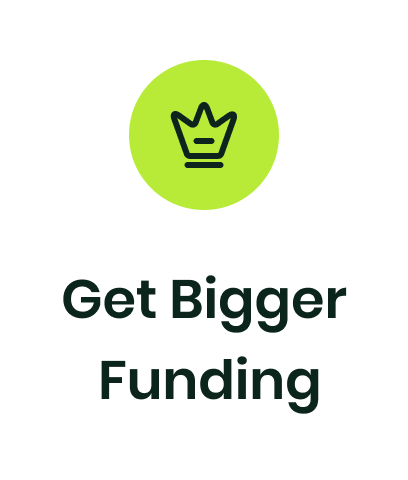
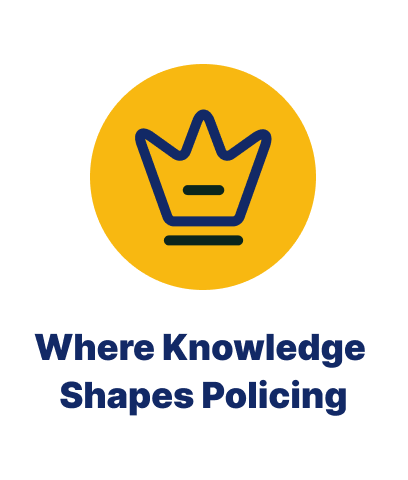
fixed publicationcontent

diff --git a/app/Http/Controllers/PublicationController.php b/app/Http/Controllers/PublicationController.php
@@ -32,25 +32,25 @@ class PublicationController extends Controller
 
         if ($publicationTypes->isEmpty()) {
             return view('pages.publication.index', [
-                'latestPublications' => [],
-                'publicationTypes' => $publicationTypes,
-                'selectedType' => null,
-                'bestAuthors' => collect([]),
-                'popularPublications' => collect([]),
-                'featuredPublication' => null,
-                'featuredTypeContent' => null,
-                'categories' => collect([]),
-                'years' => collect([]),
-                'topKeywords' => collect([]),
-                'filterSort' => 'latest',
-                'searchQuery' => null,
+                'latestPublications'   => [],
+                'publicationTypes'     => $publicationTypes,
+                'selectedType'         => null,
+                'bestAuthors'          => collect([]),
+                'popularPublications'  => collect([]),
+                'featuredPublication'  => null,
+                'featuredTypeContent'  => null,
+                'categories'           => collect([]),
+                'years'               => collect([]),
+                'topKeywords'          => collect([]),
+                'filterSort'           => 'latest',
+                'searchQuery'          => null,
             ]);
         }
 
         // Simple parameters: type & sort only
         $selectedType = $request->query('type', $publicationTypes->first()->slug);
-        $filterSort = $request->query('sort', 'latest');
-        $searchQuery = null;
+        $filterSort   = $request->query('sort', 'latest');
+        $searchQuery  = null;
 
         $typeExists = $publicationTypes->contains('slug', $selectedType);
         if (!$typeExists) {
@@ -60,21 +60,11 @@ class PublicationController extends Controller
         // Get current PublicationType object untuk ambil content
         $currentType = $publicationTypes->firstWhere('slug', $selectedType);
 
-        // Format Featured Type Content dari PublicationTypeContent
-        $featuredTypeContent = null;
-        if ($currentType && $currentType->content) {
-            $featuredTypeContent = [
-                'title' => $currentType->content->title ?? $currentType->name,
-                'cover_url' => $this->getTypeContentCover($currentType->content),
-                'category' => $currentType->name,
-                'type' => $currentType->name,
-                'publication_type' => $currentType->name,
-                'abstract' => $currentType->content->description,
-                'download_count' => 0,
-                'detail_url' => '#',
-                'slug' => $currentType->slug,
-            ];
-        }
+        /**
+         * ✅ Featured Type Content:
+         * SEKARANG: langsung kirim instance model PublicationTypeContent (bisa null)
+         */
+        $featuredTypeContent = $currentType?->content; // bisa null
 
         // GET FILTER OPTIONS DATA (for search modal)
         $categories = \App\Models\Category::whereHas('publications', function ($query) use ($selectedType) {
@@ -162,83 +152,44 @@ class PublicationController extends Controller
         // Get Latest Publications
         $publications = $publicationsQuery->take(6)->get();
 
-        // ✅ DEBUG: Log raw publications data
-        if ($publications->isNotEmpty()) {
-            \Log::info('Raw Publications Query Result', [
-                'count' => $publications->count(),
-                'first_pub_id' => $publications->first()->id,
-                'first_pub_title' => $publications->first()->title,
-                'first_pub_type_id' => $publications->first()->publication_type_id,
-                'first_pub_has_relation' => $publications->first()->relationLoaded('publicationType'),
-                'first_pub_type_name' => $publications->first()->publicationType?->name,
-            ]);
-        }
-
-        // ✅ Map Latest Publications dengan data BENAR
+        // Map Latest Publications
         $latestPublications = $publications->map(function ($pub) {
-            // Get first author name
             $firstAuthor = $pub->authors->first();
             $firstAuthorName = $firstAuthor ? $firstAuthor->name : 'Anonymous';
 
-            // ✅ PENTING: Pastikan publicationType ter-load dengan benar
-            $publicationType = 'Publikasi'; // Default fallback
-
+            $publicationType = 'Publikasi';
             if ($pub->relationLoaded('publicationType') && $pub->publicationType) {
                 $publicationType = $pub->publicationType->name;
             } elseif ($pub->publication_type_id) {
-                // Emergency fallback jika relation tidak ter-load
                 $type = \App\Models\PublicationType::find($pub->publication_type_id);
                 $publicationType = $type ? $type->name : 'Publikasi';
             }
 
-            // ✅ DEBUG: Log setiap mapping
-            \Log::info('Mapping Publication', [
-                'id' => $pub->id,
-                'title' => \Illuminate\Support\Str::limit($pub->title, 50),
-                'publication_type' => $publicationType,
-                'is_default' => $publicationType === 'Publikasi',
-            ]);
-
             return [
-                'id' => $pub->id,
-                'title' => $pub->title,
-                'slug' => $pub->slug,
-                'cover_url' => $this->getCoverUrl($pub),
-                'category' => $pub->category_name,
-
-                // ✅ PENTING: Kirim nama type yang BENAR (Buku, Jurnal, dll)
+                'id'               => $pub->id,
+                'title'            => $pub->title,
+                'slug'             => $pub->slug,
+                'cover_url'        => $this->getCoverUrl($pub),
+                'category'         => $pub->category_name,
                 'publication_type' => $publicationType,
-
-                'formatted_date' => $pub->formatted_date,
-                'status' => $pub->publicationType && $pub->publicationType->requires_review
+                'formatted_date'   => $pub->formatted_date,
+                'status'           => $pub->publicationType && $pub->publicationType->requires_review
                     ? 'Peer-reviewed'
                     : 'Terverifikasi',
-                'type' => $publicationType,
-                'detail_url' => route('publikasi.show', $pub->slug),
-                'authors' => $pub->authors->take(6)->map(function ($author) {
+                'type'             => $publicationType,
+                'detail_url'       => route('publikasi.show', $pub->slug),
+                'authors'          => $pub->authors->take(6)->map(function ($author) {
                     return [
-                        'id' => $author->id,
-                        'name' => $author->name,
-                        'photo' => $author->photo_url,
-                        'initials' => $author->initials,
+                        'id'        => $author->id,
+                        'name'      => $author->name,
+                        'photo'     => $author->photo_url,
+                        'initials'  => $author->initials,
                     ];
                 })->toArray(),
-                'total_authors' => $pub->authors->count(),
+                'total_authors'    => $pub->authors->count(),
                 'first_author_name' => $firstAuthorName,
             ];
         })->toArray();
-
-        // ✅ DEBUG: Log final mapped data
-        if (!empty($latestPublications)) {
-            \Log::info('Final Latest Publications', [
-                'count' => count($latestPublications),
-                'first_item' => [
-                    'title' => \Illuminate\Support\Str::limit($latestPublications[0]['title'], 50),
-                    'publication_type' => $latestPublications[0]['publication_type'],
-                    'is_default' => $latestPublications[0]['publication_type'] === 'Publikasi',
-                ],
-            ]);
-        }
 
         // GET BEST AUTHORS - LIMIT 6
         $bestAuthors = $this->getBestAuthorsAction->execute($selectedType, 6);
@@ -260,60 +211,58 @@ class PublicationController extends Controller
             ->take(7)
             ->get();
 
-        // Featured Publication
+        // Featured Publication (fallback kalau tidak ada content custom)
         $featuredPublication = null;
         if (!$featuredTypeContent && $popularPubs->first()) {
             $featuredPub = $popularPubs->first();
 
-            // Get publication type untuk featured
             $featuredPubType = 'Publikasi';
             if ($featuredPub->publicationType) {
                 $featuredPubType = $featuredPub->publicationType->name;
             }
 
             $featuredPublication = [
-                'id' => $featuredPub->id,
-                'title' => $featuredPub->title,
-                'slug' => $featuredPub->slug,
-                'cover_url' => $this->getCoverUrl($featuredPub),
-                'category' => $featuredPub->category_name,
+                'id'               => $featuredPub->id,
+                'title'            => $featuredPub->title,
+                'slug'             => $featuredPub->slug,
+                'cover_url'        => $this->getCoverUrl($featuredPub),
+                'category'         => $featuredPub->category_name,
                 'publication_type' => $featuredPubType,
-                'type' => $featuredPubType,
-                'abstract' => \Illuminate\Support\Str::limit($featuredPub->abstract, 120),
-                'download_count' => $featuredPub->download_logs_count,
-                'detail_url' => route('publikasi.show', $featuredPub->slug),
+                'type'             => $featuredPubType,
+                'abstract'         => \Illuminate\Support\Str::limit($featuredPub->abstract, 120),
+                'download_count'   => $featuredPub->download_logs_count,
+                'detail_url'       => route('publikasi.show', $featuredPub->slug),
             ];
         }
 
         // Popular Publications List
         $skipCount = $featuredTypeContent ? 0 : 1;
         $popularPublications = $popularPubs->skip($skipCount)->take(6)->map(function ($pub) {
-            // Get publication type
             $pubType = 'Publikasi';
             if ($pub->publicationType) {
                 $pubType = $pub->publicationType->name;
             }
 
             return [
-                'id' => $pub->id,
-                'title' => $pub->title,
-                'slug' => $pub->slug,
-                'cover_url' => $this->getCoverUrl($pub),
-                'category' => $pub->category_name,
+                'id'               => $pub->id,
+                'title'            => $pub->title,
+                'slug'             => $pub->slug,
+                'cover_url'        => $this->getCoverUrl($pub),
+                'category'         => $pub->category_name,
                 'publication_type' => $pubType,
-                'formatted_date' => $pub->formatted_date,
-                'download_count' => $pub->download_logs_count,
-                'views_count' => $pub->views_count,
-                'detail_url' => route('publikasi.show', $pub->slug),
-                'authors' => $pub->authors->take(6)->map(function ($author) {
+                'formatted_date'   => $pub->formatted_date,
+                'download_count'   => $pub->download_logs_count,
+                'views_count'      => $pub->views_count,
+                'detail_url'       => route('publikasi.show', $pub->slug),
+                'authors'          => $pub->authors->take(6)->map(function ($author) {
                     return [
-                        'id' => $author->id,
-                        'name' => $author->name,
-                        'photo' => $author->photo_url,
-                        'initials' => $author->initials,
+                        'id'        => $author->id,
+                        'name'      => $author->name,
+                        'photo'     => $author->photo_url,
+                        'initials'  => $author->initials,
                     ];
                 })->toArray(),
-                'total_authors' => $pub->authors->count(),
+                'total_authors'    => $pub->authors->count(),
             ];
         });
 
@@ -322,7 +271,7 @@ class PublicationController extends Controller
             'publicationTypes',
             'selectedType',
             'bestAuthors',
-            'popularPublications',
+            'popularPubliclications',
             'featuredPublication',
             'featuredTypeContent',
             'categories',
@@ -332,7 +281,6 @@ class PublicationController extends Controller
             'searchQuery'
         ));
     }
-
 
     /**
      * ✅ Show publication detail

diff --git a/resources/views/components/publication/popular-section.blade.php b/resources/views/components/publication/popular-section.blade.php
@@ -35,13 +35,14 @@
 
         {{-- Left: Featured (Prioritas: TypeContent > Publication) --}}
         @if($featuredTypeContent)
-        {{-- ✅ Prioritas 1: Featured dari PublicationTypeContent --}}
-        <x-publication.featured-card :title="$featuredTypeContent['title']"
-            :coverUrl="$featuredTypeContent['cover_url']" :category="$featuredTypeContent['category']"
-            :publicationType="$featuredTypeContent['publication_type'] ?? $featuredTypeContent['type'] ?? 'Publikasi'"
-            :type="$featuredTypeContent['type']" :abstract="$featuredTypeContent['abstract'] ?? null"
-            :downloadCount="$featuredTypeContent['download_count'] ?? 0" :detailUrl="$featuredTypeContent['detail_url']"
-            :slug="$featuredTypeContent['slug'] ?? ''" />
+        {{-- ✅ Featured dari PublicationTypeContent (masih bentuk array) --}}
+        <x-publication.featured-card
+            :title="$featuredTypeContent['title'] ?? ($featuredTypeContent['publication_type'] ?? 'Publikasi')"
+            :coverUrl="$featuredTypeContent['cover_url'] ?? null" :category="$featuredTypeContent['category'] ?? 'Umum'"
+            :publicationType="$featuredTypeContent['publication_type'] ?? 'Publikasi'"
+            :type="$featuredTypeContent['type'] ?? 'publikasi'" :abstract="$featuredTypeContent['abstract'] ?? null"
+            :downloadCount="$featuredTypeContent['download_count'] ?? 0"
+            :detailUrl="$featuredTypeContent['detail_url'] ?? '#'" :slug="$featuredTypeContent['slug'] ?? ''" />
         @elseif($featuredPublication)
         {{-- ✅ Prioritas 2: Featured dari Publication paling populer --}}
         <x-publication.featured-card :title="$featuredPublication['title']"
@@ -51,6 +52,7 @@
             :downloadCount="$featuredPublication['download_count'] ?? 0" :detailUrl="$featuredPublication['detail_url']"
             :slug="$featuredPublication['slug'] ?? ''" />
         @endif
+
 
         {{-- Right: List --}}
         @if($publications->isNotEmpty())

diff --git a/resources/views/components/publication/featured-card.blade.php b/resources/views/components/publication/featured-card.blade.php
@@ -145,13 +145,4 @@ $finalCoverUrl = $coverUrl ?: $placeholderUrl;
             @endif
         </div>
     </div>
-
-    {{-- ✅ Debug Info (remove in production) --}}
-    @if(app()->environment('local'))
-    <div class="absolute top-2 left-2 z-50 p-2 bg-black/80 text-white text-[10px] rounded max-w-[200px]">
-        <p class="truncate">Cover: {{ $coverUrl ? 'YES' : 'NO' }}</p>
-        <p class="truncate">Type: {{ $displayType }}</p>
-        <p class="truncate">Final: {{ basename($finalCoverUrl) }}</p>
-    </div>
-    @endif
 </a>

diff --git a/resources/views/pages/publication/index.blade.php b/resources/views/pages/publication/index.blade.php
@@ -106,4 +106,5 @@
     :featuredPublication="$featuredPublication ?? null" :publications="$popularPublications ?? collect([])"
     :selectedType="$selectedType" :exploreAllUrl="route('publikasi.browse', ['type' => $selectedType])" />
 
+
 @endsection